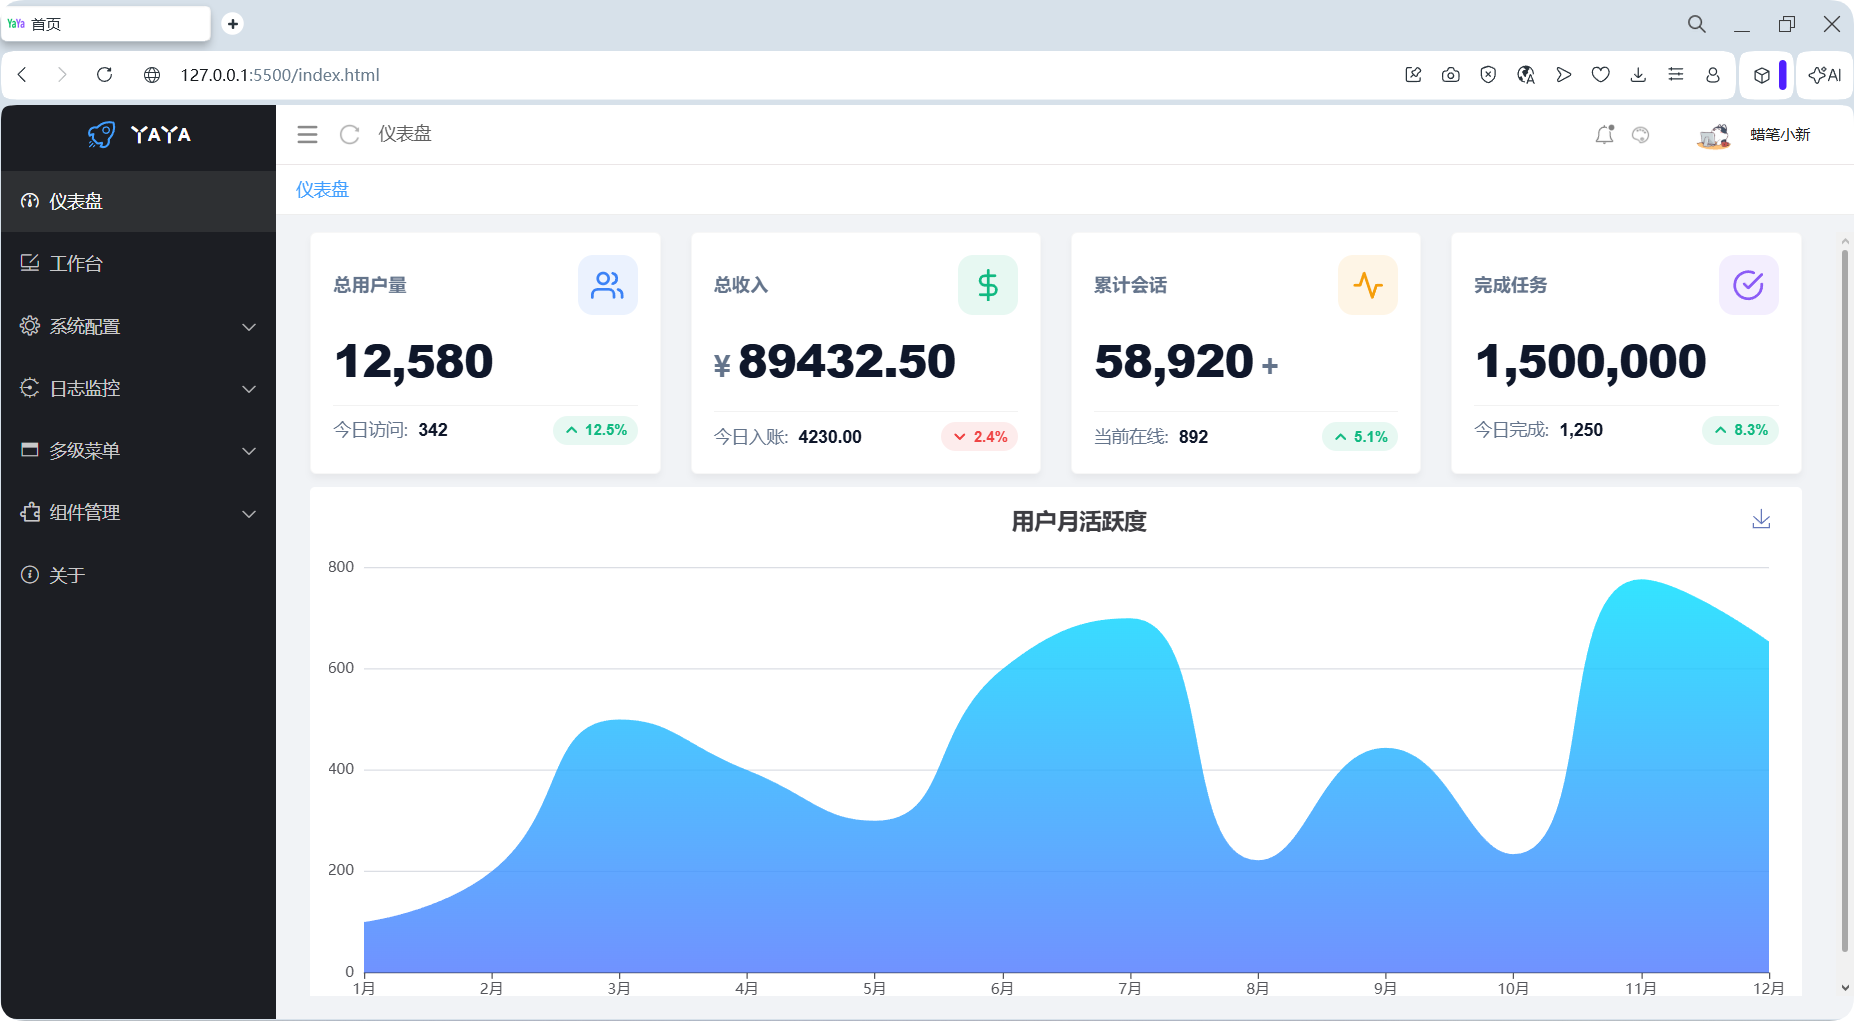
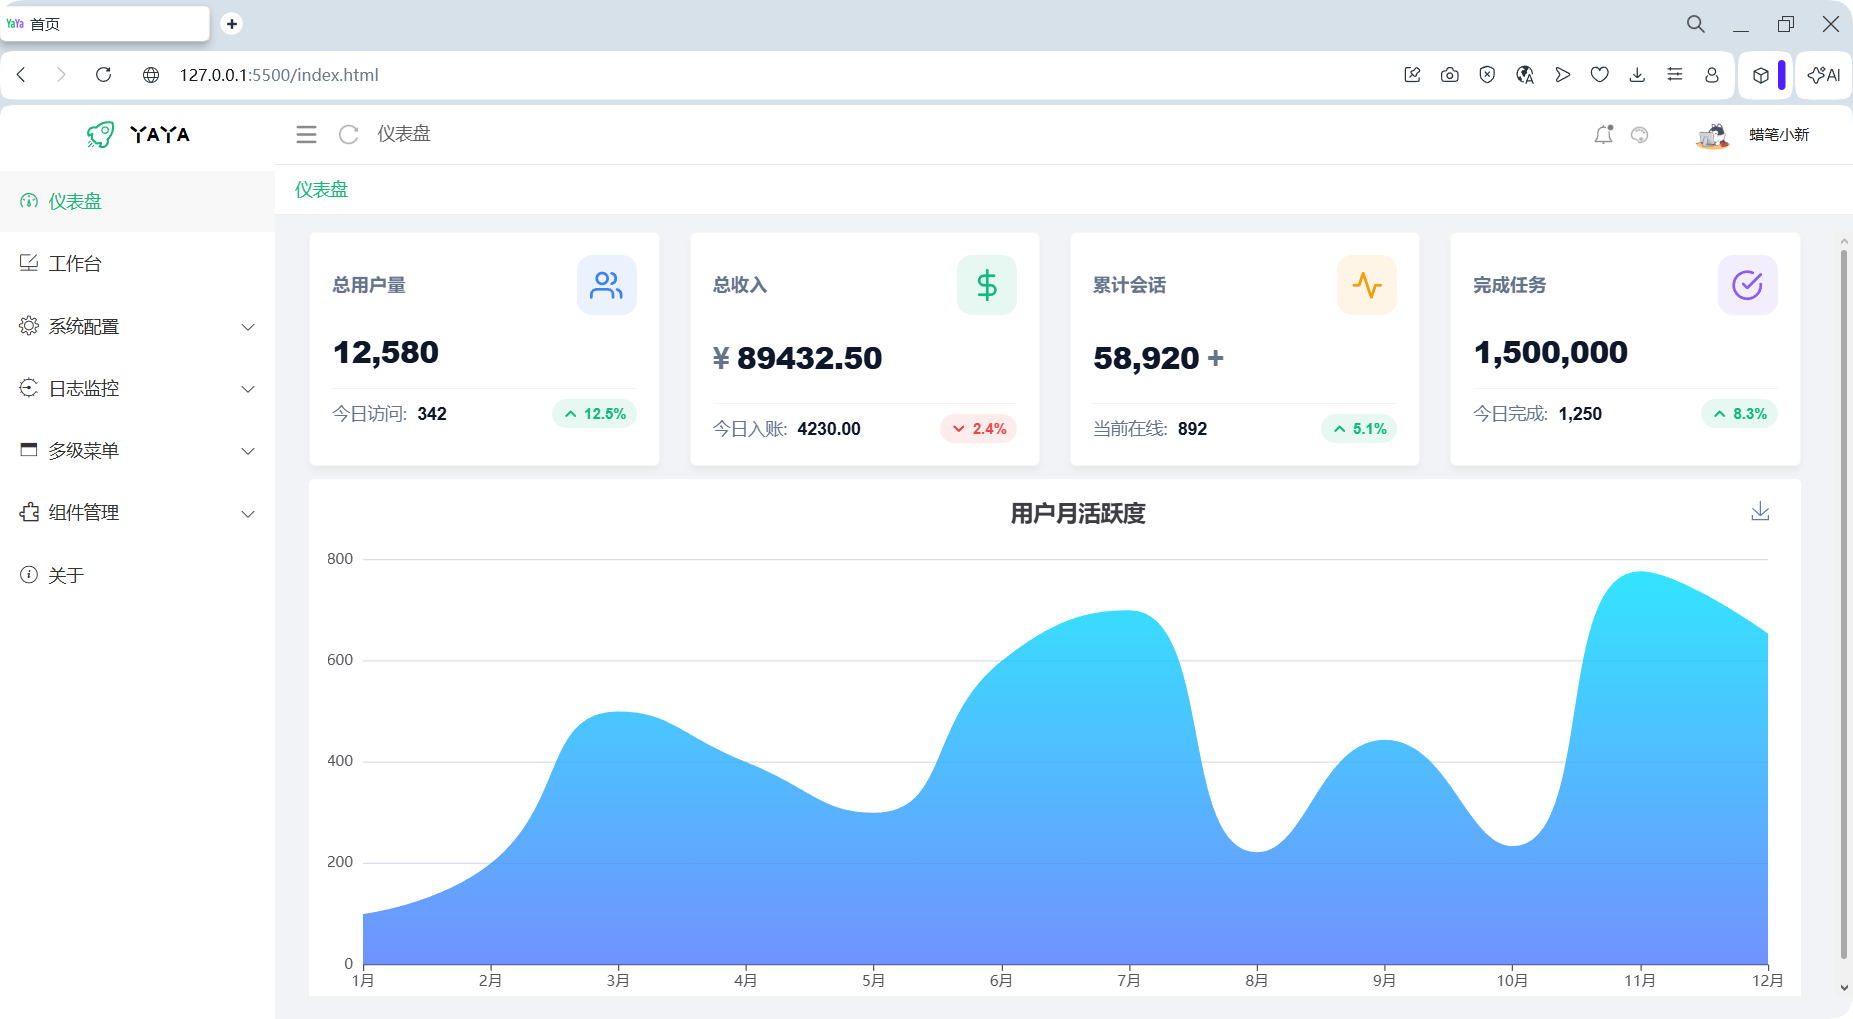
首页更新-2

diff --git a/README.md b/README.md
@@ -8,7 +8,7 @@
 #### <div align="center"> 基于前端框架Layui2.13+开发的一套极简后台管理模板 </div>
 <div align="center">
 	<a href="https://gitee.com/ukoko/yaya-layui-admin-plus"><img alt="abc" src="https://img.shields.io/badge/Layui-%3E=2.13.3-magenta"></a>
-    <a href="https://gitee.com/ukoko/yaya-layui-admin-plus"><img alt="abc" src="https://img.shields.io/badge/YaYa Layui Admin Plus-v1.8-deeppink"></a>
+    <a href="https://gitee.com/ukoko/yaya-layui-admin-plus"><img alt="abc" src="https://img.shields.io/badge/YaYa Layui Admin Plus-v1.9-deeppink"></a>
 	<a href="https://gitee.com/ukoko/yaya-layui-admin-plus"><img alt="abc" src="https://img.shields.io/badge/Author-%E5%A4%9C%E6%B3%8A1990-quartz"></a>
     <a href="https://gitee.com/ukoko/yaya-layui-admin-plus"><img alt="abc" src="https://img.shields.io/badge/LICENSE-MIT-tomato"></a>
 </div>
@@ -31,7 +31,7 @@
 #### 更新日志
 
 ```
-2026-02-28      新增布局组件，修改案例页面的样式为模板定义的样式，并且优化了几个不合理的样式
+2026-02-28      新增布局组件，修改案例页面的样式为模板定义的样式，并且优化了几个不合理的样式，首页统计样式调整
 2026-02-27      新增列表条件搜索组件
 2026-02-26      新增标签和徽章组件样式
 2026-02-25      新增组件管理菜单项[内部新增按钮管理和图标管理]
